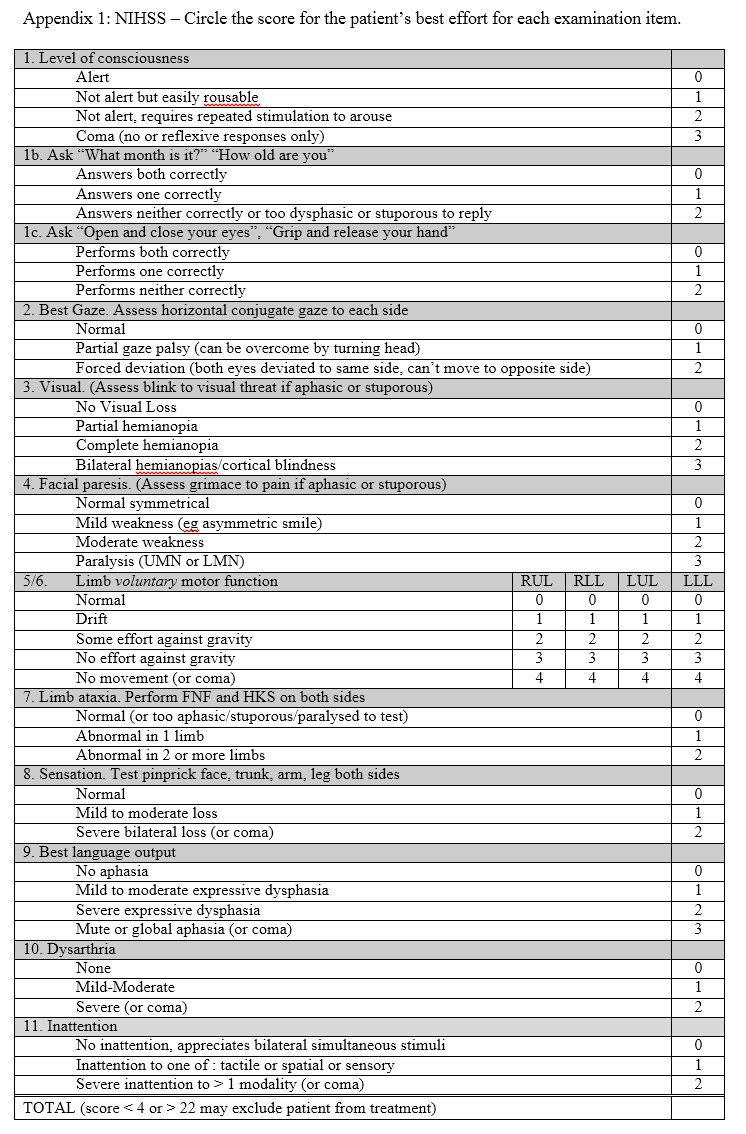
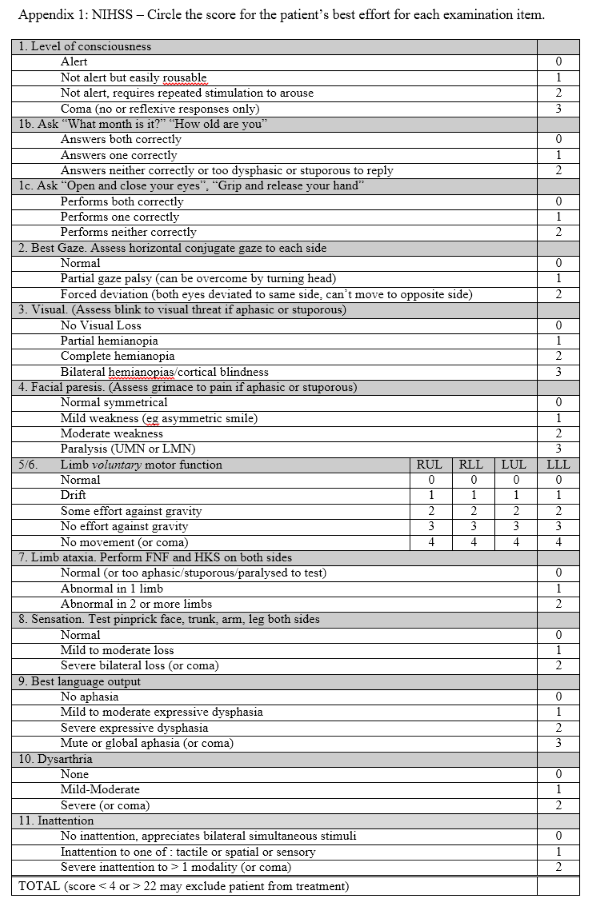
Resize NIHSS picture

diff --git a/docs/s2-initialselection.md b/docs/s2-initialselection.md
@@ -10,18 +10,18 @@ permalink: /docs/s2initialselection/
 <div class="note info">
 1. Timing – the maximum allowable symptom onset to needle time is 4.5h 
 	1. Woke with symptoms? If Yes then Stop unless asleep <3-4h 
-	2. More than 4h ago or unknown? If Yes then Stop 
+	2. More than 4h ago or unknown? If Yes then **Stop** 
 2. Deficit 
-	1. Trivial ie NIHSS < 4 : Stop 
-	2. Terrible ie NIHSS > 22 : Stop 
-	3. Dramatically improving : Stop 
+	1. Trivial ie NIHSS < 3-4 : **Stop** 
+	2. Terrible ie NIHSS > 22 : **Stop**
+	3. Dramatically improving : **Stop**
 </div>
 
 ## Patient Selection
 
 ### Timing
 
-* It is crucial patients are not given TPA if time of onset was > 4.5h ago.
+* It is crucial patients are not given thrombolysis if time of onset was > 4.5h ago.
 * Patients waking with symptoms may have had stroke onset anytime after falling asleep. Time of onset should therefore be conservatively taken as time fell asleep.
 * In patients too drowsy or dysphasic to provide a history the time of onset should be taken as time last seen well by witness. If no recent witness then patient is not eligible for treatment.
 
@@ -38,7 +38,7 @@ permalink: /docs/s2initialselection/
 * No. There is no specific age cutoff. The pathways presented here are for **adults**. For pediatric patients with acute ischemic stroke consult a pediatric neurologist.
 * He should receive thrombolysis if his CT is normal
 * No. Thrombolysis is contraindicated in this patient for 2 reasons: 1) Uncertain time of onset which could be up to 8h even with a normal CT. 2) The deficit is too severe, NIHSS > 22 (this cutoff is subject to debate).
-* TPA is contraindicated
+* Thrombolysis is contraindicated
 * Yes. Uncertain time of onset (remember, unlike a myocardiac infarct, patients will sleep through the onset of their stroke). The deficit is also too severe (although the upper limit NIHSS is a subject of debate).
 
 ### 50y old woman, smoker. 3h of acute left mild hemiparesis and dysarthria. Weakness improving in ED. CT shows subtle loss of insular ribbon consistent with acute ischemia.
@@ -49,6 +49,6 @@ permalink: /docs/s2initialselection/
 * Thrombolysis is not necessary
 * Maybe. The current deficit is mild and spontaneously improving. It is reasonable to defer thrombolysis decision for now and clinically reassess in 30 minutes. Improvement should be maintained and ongoing before thrombolysis is abandonded as some patients may initially improve slightly and then stop improving or deteriorate again.
 * Thrombolysis is contraindicated due to abnormal CT
-* No. Subtle CT findings such as loss of grey-white differentiation can be seen after 3h. These do not contraindicate TPA. Extensive acute hypodensity usually indicates a stroke > 5-6h in duration. Recheck time of onset and if in doubt discuss with radiology or on call neurologist.
+* No. Subtle CT findings such as loss of grey-white differentiation can be seen after 3h. These do not contraindicate thrombolysis. Extensive acute hypodensity usually indicates a stroke > 5-6h in duration. Recheck time of onset and if in doubt discuss with radiology or on call neurologist.
 * Reassess in 30 minutes  
-* Correct. The current deficit is mild and spontaneously improving. Reasonable to defer TPA decision. Some patients will deteriorate after initial improvement and should be treated if still within the 4.5h window. Discuss with on call neurologist if uncertain.
+* Correct. The current deficit is mild and spontaneously improving. Reasonable to defer thrombolysis decision. Some patients will deteriorate after initial improvement and should be treated if still within the 4.5h window. Discuss with on call neurologist if uncertain.
